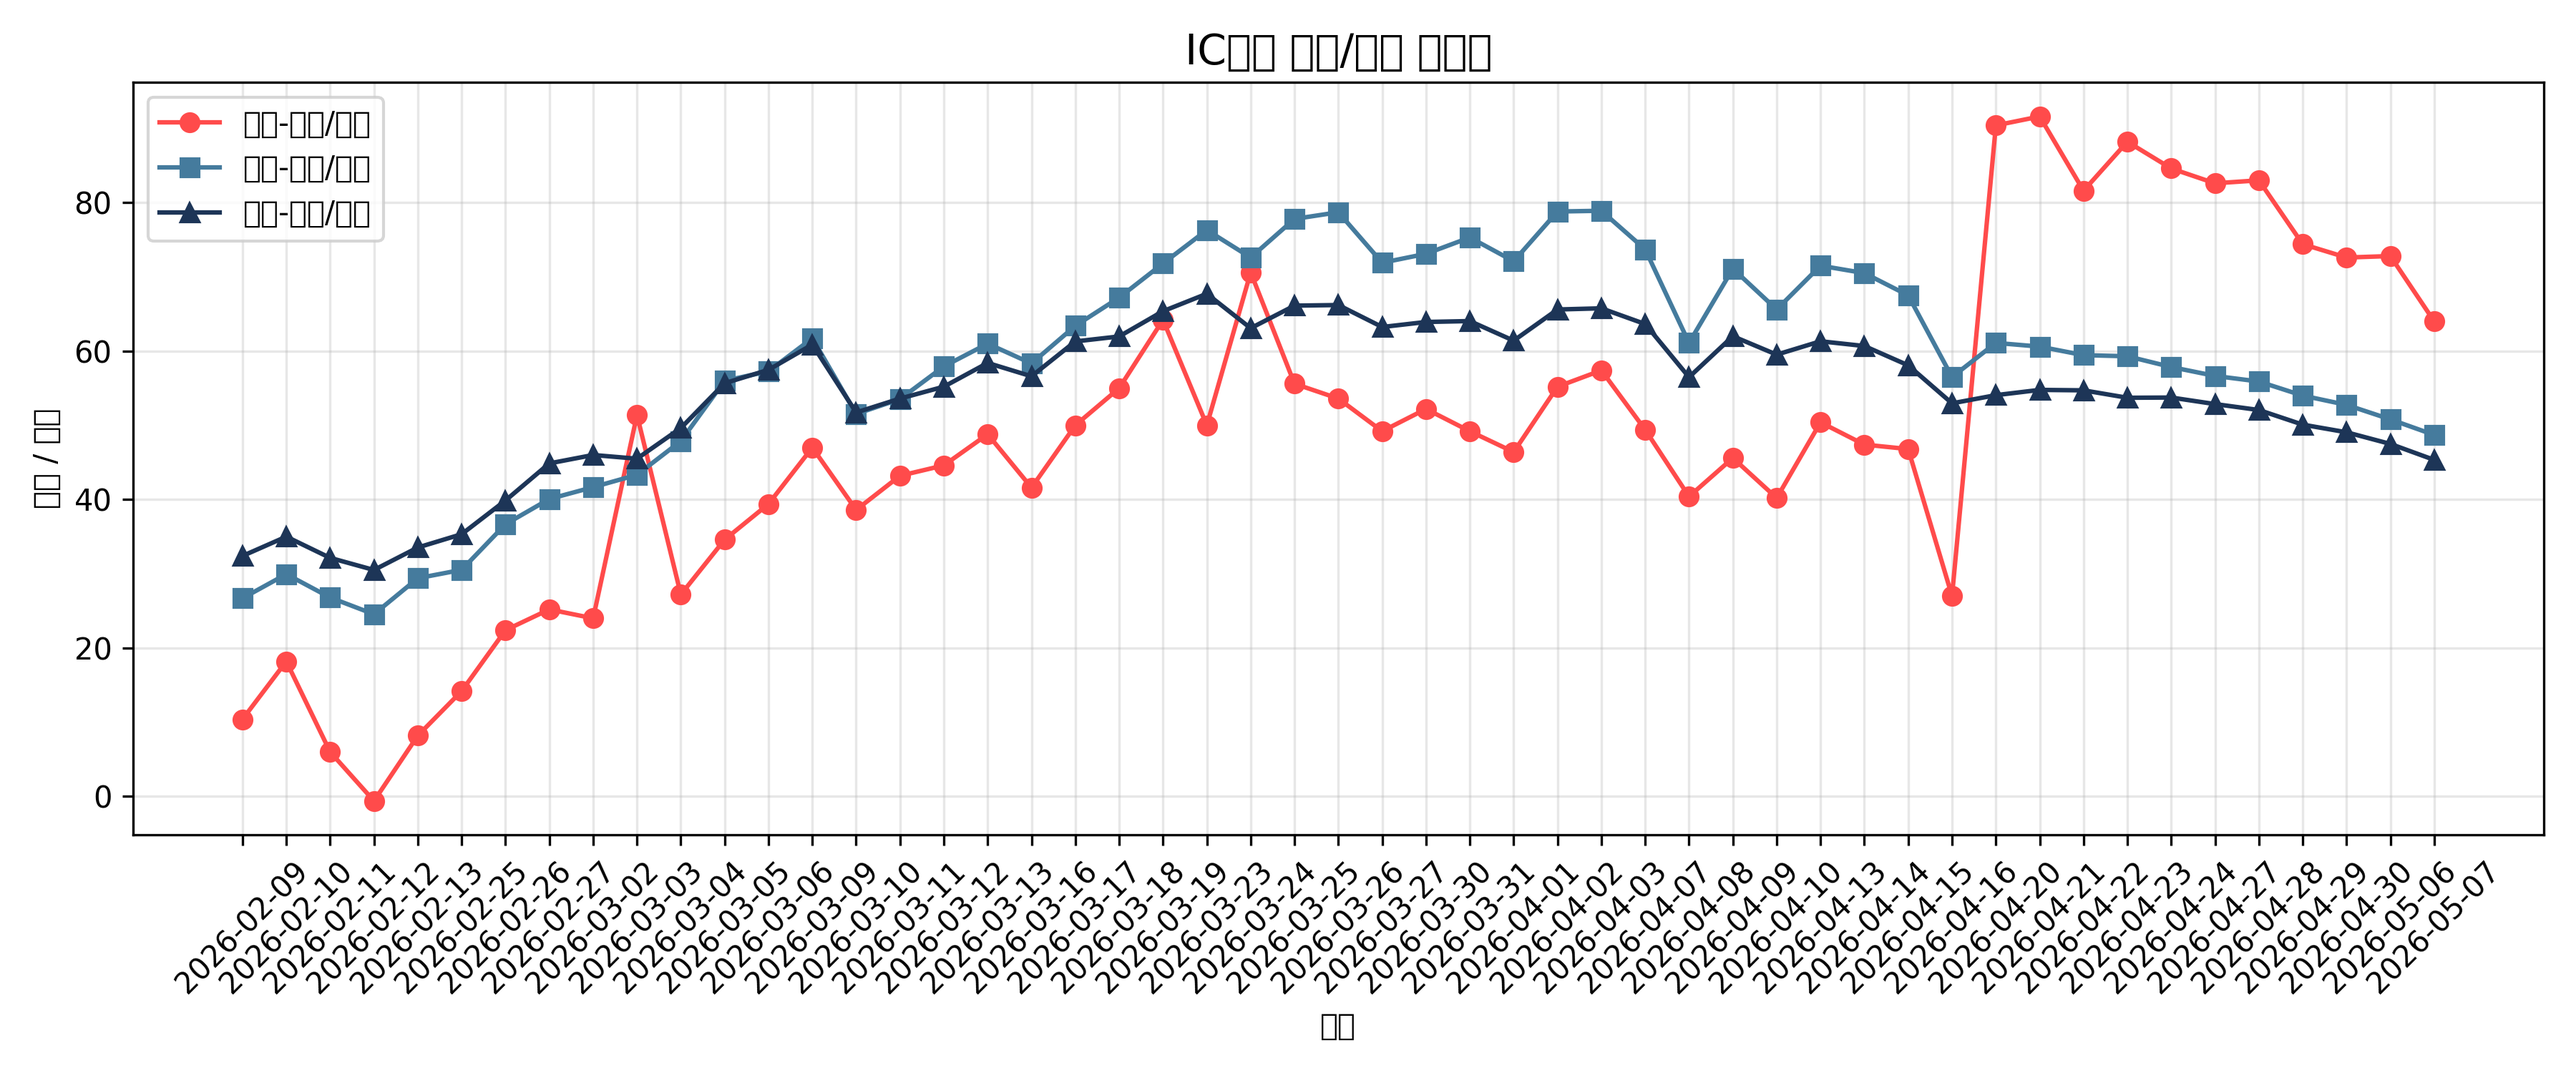
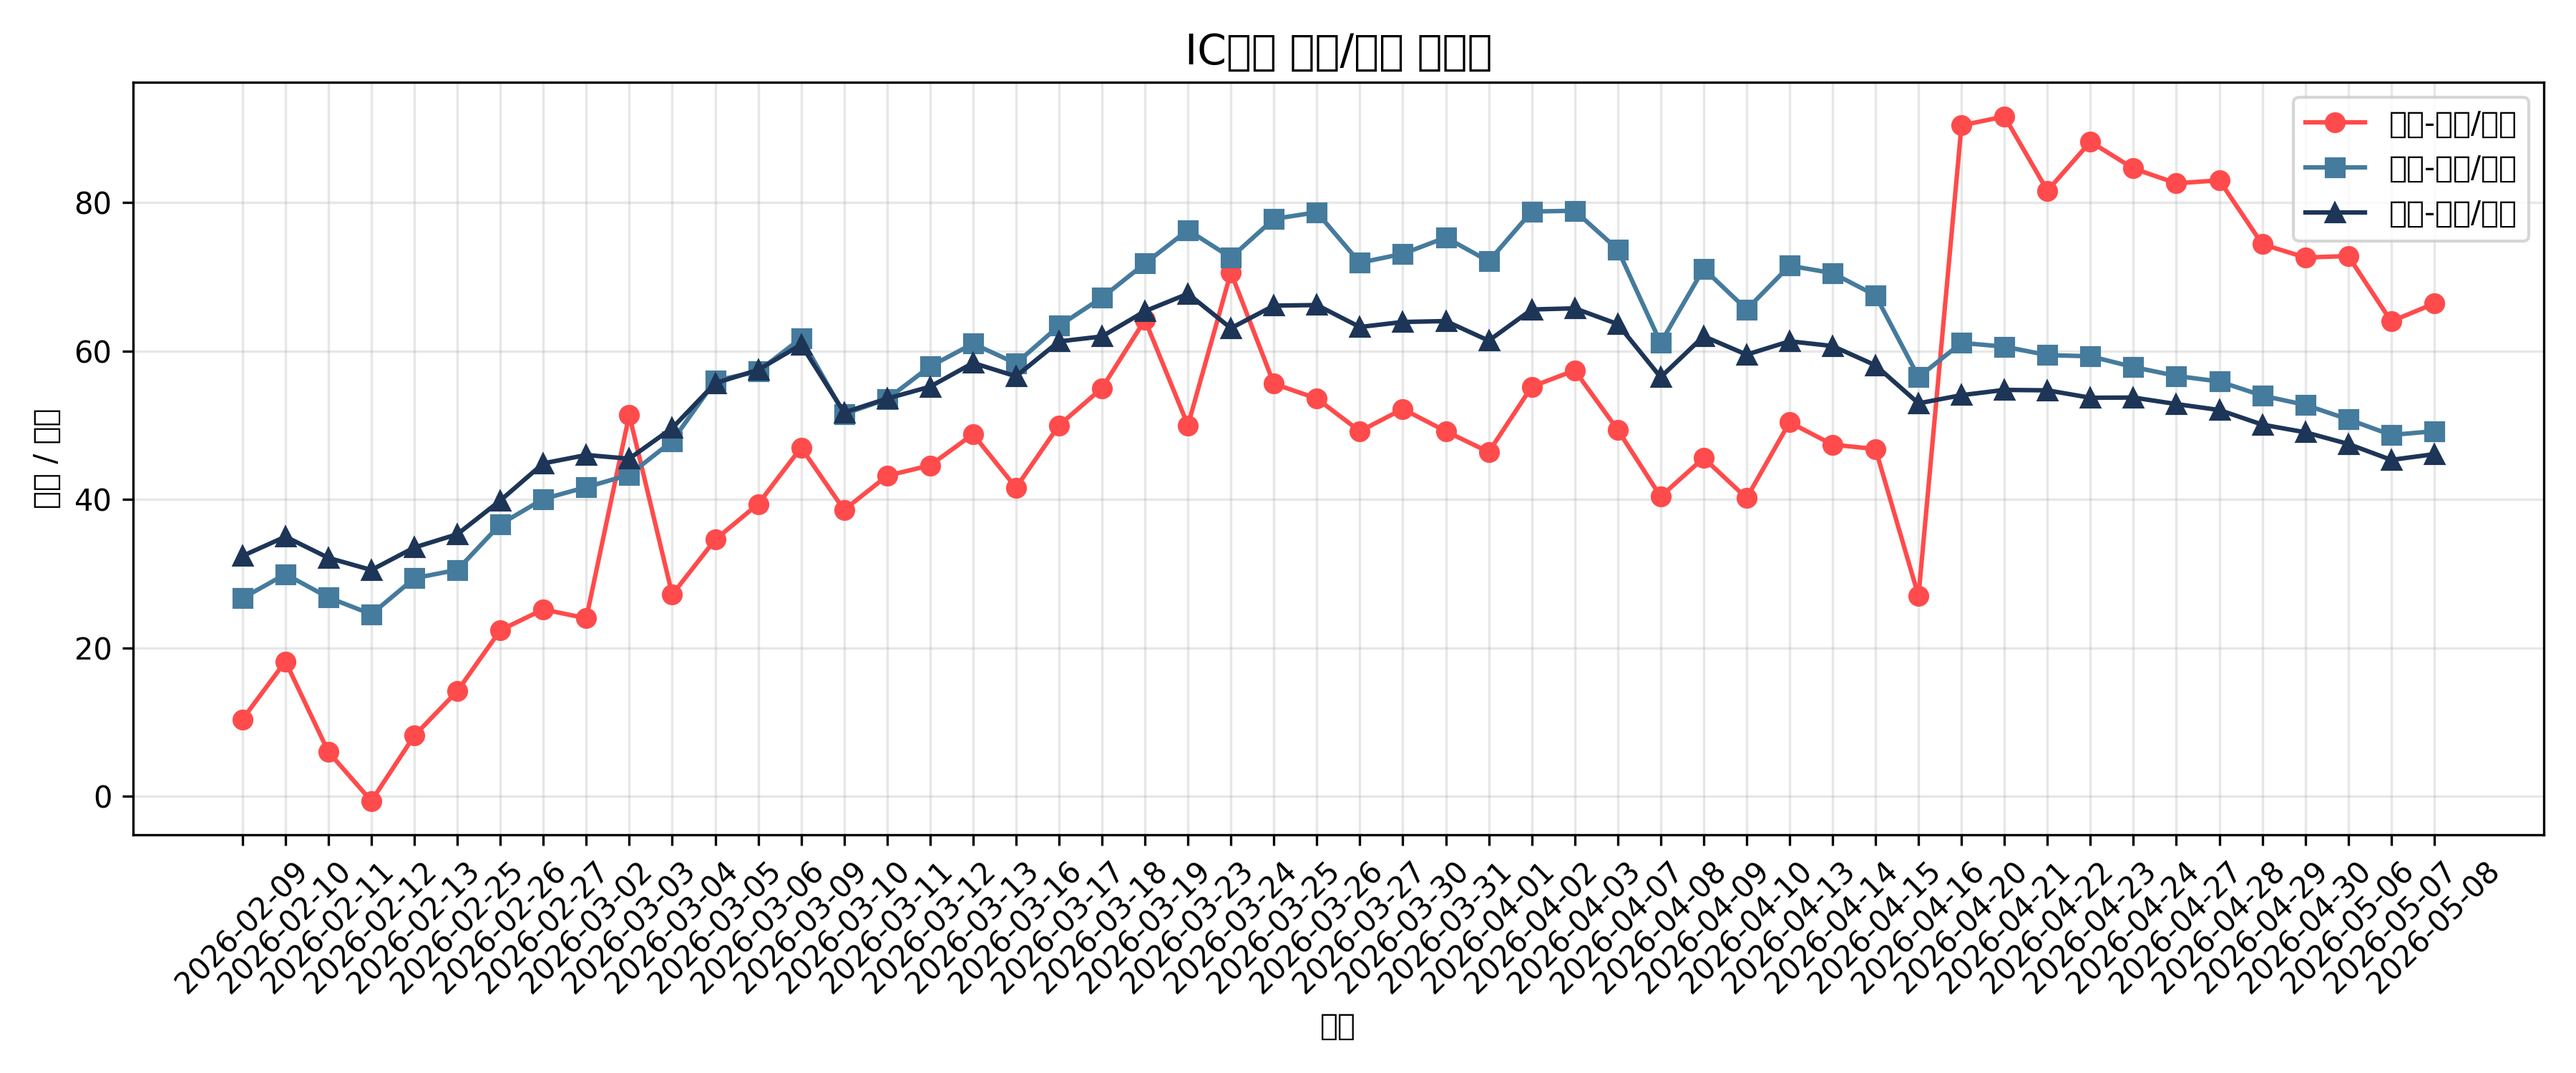
deploy: 4d1bb30b7b0bf8623cc214497fc979b4192c654b

diff --git a/index.html b/index.html
@@ -84,19 +84,19 @@
 <body>
     <div class="container">
         <h1>IC期货基差监控</h1>
-        <div class="last-updated">最后更新：2026-05-07 18:43:56</div>
+        <div class="last-updated">最后更新：2026-05-08 18:07:02</div>
         
         <div class="stats">
             <div class="stat-card">
-                <div class="stat-value">64.0</div>
+                <div class="stat-value">66.4</div>
                 <div class="stat-label">当月-下月/月差</div>
             </div>
             <div class="stat-card">
-                <div class="stat-value">48.7</div>
+                <div class="stat-value">49.2</div>
                 <div class="stat-label">当月-当季/月差</div>
             </div>
             <div class="stat-card">
-                <div class="stat-value">45.34</div>
+                <div class="stat-value">46.11</div>
                 <div class="stat-label">当月-下季/月差</div>
             </div>
         </div>
@@ -114,14 +114,6 @@
                 <th>当月-下月/月差</th>
                 <th>当月-当季/月差</th>
                 <th>当月-下季/月差</th>
-            </tr>
-
-            <tr>
-                <td>2026-04-24</td>
-                <td>IC2605</td>
-                <td>84.6</td>
-                <td>57.85</td>
-                <td>53.74</td>
             </tr>
 
             <tr>
@@ -170,6 +162,14 @@
                 <td>64.0</td>
                 <td>48.7</td>
                 <td>45.34</td>
+            </tr>
+
+            <tr>
+                <td>2026-05-08</td>
+                <td>IC2605</td>
+                <td>66.4</td>
+                <td>49.2</td>
+                <td>46.11</td>
             </tr>
 
         </table>
